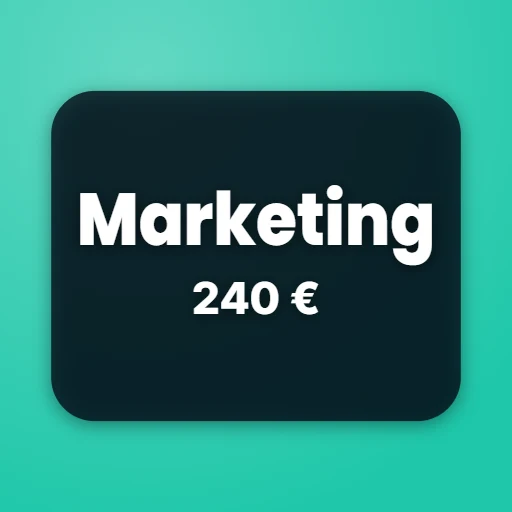
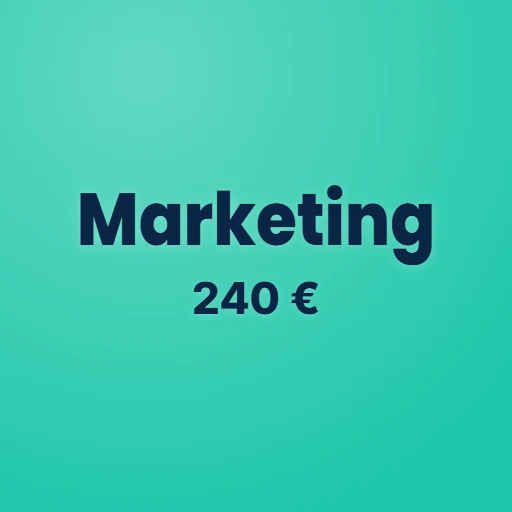
Le fond 3D ne disparaît plus, et l'encre des cubes s'adapte à la case
Fond d'écran : le filet de sécurité coupait l'ambiance dès que la page
tombait sous 14 images/s (nuage de cubes retiré), et supprimait tout le
fond sous 7 img/s. Sur une machine modeste, le fond d'écran 3D
s'évanouissait donc au bout de quelques secondes — c'est ce que Louis
constatait. Désormais il ne disparaît jamais pour cause de lenteur : la
définition baisse, le nombre de cubes diminue, mais ils restent à
l'écran. Seule une perte de contexte WebGL bascule encore sur le
dégradé statique — là il n'y a plus rien à afficher.

Écriture des cubes : la plaque noire derrière le texte est retirée. Elle
est remplacée par une encre choisie au contraste, pas par habitude —
blanc sur les cases bleues, bleu de marque sur le vert, le doré et le
bleu ciel. Mesures WCAG 2.1 : blanc/#2c73c9 = 4,77:1 · #0b2545/vert =
7,18:1 · #0b2545/doré = 6,41:1. Le seuil AA du texte courant est 4,5:1.

Le bleu des cases passe de #2f7bd6 à #2c73c9 : sur l'ancien, ni le blanc
(4,26) ni le foncé (3,61) n'atteignaient le seuil. La teinte change à
peine, le texte devient lisible. Couleur alignée entre les textures 3D,
les cubes de la scène et le repli CSS.

Le prix des cases claires passe à pleine opacité : il était à 0,92, ce
qui ne se voyait pas en blanc mais délavait l'encre foncée.

diff --git a/index.html b/index.html
@@ -449,6 +449,17 @@ if(f&&f.toLowerCase()==='b'){document.documentElement.classList.add('hero-clair-
      bas de la fourchette de police descend à 12,5 px : à 360 px de large, une case
      ne fait que 83 px de texte utile. */
   .cube-cell .cc-name,.cube-cell .cc-price{position:relative;z-index:1;overflow-wrap:anywhere;hyphens:manual}
+
+  /* Encre choisie par contraste, comme dans les textures 3D : blanc sur les
+     cases sombres, bleu de marque sur les cases claires. Mesures WCAG :
+     blanc/#2c73c9 = 4,77:1 · #0b2545/vert = 7,18:1 · #0b2545/dore = 6,41:1
+     · #0b2545/bleu ciel = 7,18:1. Seuil AA du texte courant : 4,5:1. */
+  .cube-cell.encre-foncee .cc-name,
+  .cube-cell.encre-foncee .cc-price{color:#0b2545;text-shadow:0 1px 6px rgba(255,255,255,.26)}
+  /* Le prix est en opacite reduite par defaut : invisible en encre foncee.
+     On le remet a plein et on l'epaissit legerement. */
+  .cube-cell.encre-foncee .cc-price{opacity:1;font-weight:700}
+
   /* Libellés plus gros : jusqu'à 19 px, 14 px minimum sur petit écran. */
   .cube-cell .cc-name{font-size:clamp(12.5px,3.2vw,19px);line-height:1.16;
     text-shadow:0 1px 3px rgba(3,10,24,.5),0 2px 12px rgba(3,10,24,.45);
@@ -625,15 +636,15 @@ if(f&&f.toLowerCase()==='b'){document.documentElement.classList.add('hero-clair-
     <div class="hero-stage d2">
       <!-- Repli sans WebGL / reduced-motion : la grille 3×3 du logo, chaque case ouvre une offre. -->
       <div class="cube-grid" id="cubeGrid" role="list" aria-label="Nos offres (grille du logo)">
-        <a class="cube-cell" role="listitem" style="background:linear-gradient(150deg,#3a89e0,#2f7bd6)" href="sites.html"><span class="cc-name">Sites web</span><span class="cc-price">dès 632 €</span></a>
-        <a class="cube-cell" role="listitem" style="background:linear-gradient(150deg,#2fd8ba,#1FC7A9)" href="marketing.html"><span class="cc-name">Marketing / Fiche Google</span><span class="cc-price">240 €</span></a>
-        <a class="cube-cell" role="listitem" style="background:linear-gradient(150deg,#3a89e0,#2f7bd6)" href="agents-ia.html"><span class="cc-name">Agents IA</span><span class="cc-price">dès 690 €</span></a>
-        <a class="cube-cell" role="listitem" style="background:linear-gradient(150deg,#2fd8ba,#1FC7A9)" href="automatisations.html"><span class="cc-name">Automatiser</span><span class="cc-price">dès 690 €</span></a>
-        <a class="cube-cell" role="listitem" style="background:linear-gradient(150deg,#5cc9ff,#38bdf8)" href="https://audit.ecd-digital.com" target="_blank" rel="noopener"><span class="cc-name">Audit gratuit</span><span class="cc-price">20 secondes</span></a>
-        <a class="cube-cell" role="listitem" style="background:linear-gradient(150deg,#d8b45f,#C9A24B)" href="realisations.html"><span class="cc-name">Réalisations</span><span class="cc-price">nos sites réels</span></a>
-        <a class="cube-cell" role="listitem" style="background:linear-gradient(150deg,#3a89e0,#2f7bd6)" href="guides.html"><span class="cc-name">Guides PDF</span><span class="cc-price">27 €</span></a>
-        <a class="cube-cell" role="listitem" style="background:linear-gradient(150deg,#d8b45f,#C9A24B)" href="blog.html"><span class="cc-name">Blog</span><span class="cc-price">18 articles</span></a>
-        <a class="cube-cell" role="listitem" style="background:linear-gradient(150deg,#3a89e0,#2f7bd6)" href="offres.html"><span class="cc-name">Offres &amp; tarifs</span><span class="cc-price">devis gratuit</span></a>
+        <a class="cube-cell" role="listitem" style="background:linear-gradient(150deg,#3681d4,#2c73c9)" href="sites.html"><span class="cc-name">Sites web</span><span class="cc-price">dès 632 €</span></a>
+        <a class="cube-cell encre-foncee" role="listitem" style="background:linear-gradient(150deg,#2fd8ba,#1FC7A9)" href="marketing.html"><span class="cc-name">Marketing / Fiche Google</span><span class="cc-price">240 €</span></a>
+        <a class="cube-cell" role="listitem" style="background:linear-gradient(150deg,#3681d4,#2c73c9)" href="agents-ia.html"><span class="cc-name">Agents IA</span><span class="cc-price">dès 690 €</span></a>
+        <a class="cube-cell encre-foncee" role="listitem" style="background:linear-gradient(150deg,#2fd8ba,#1FC7A9)" href="automatisations.html"><span class="cc-name">Automatiser</span><span class="cc-price">dès 690 €</span></a>
+        <a class="cube-cell encre-foncee" role="listitem" style="background:linear-gradient(150deg,#5cc9ff,#38bdf8)" href="https://audit.ecd-digital.com" target="_blank" rel="noopener"><span class="cc-name">Audit gratuit</span><span class="cc-price">20 secondes</span></a>
+        <a class="cube-cell encre-foncee" role="listitem" style="background:linear-gradient(150deg,#d8b45f,#C9A24B)" href="realisations.html"><span class="cc-name">Réalisations</span><span class="cc-price">nos sites réels</span></a>
+        <a class="cube-cell" role="listitem" style="background:linear-gradient(150deg,#3681d4,#2c73c9)" href="guides.html"><span class="cc-name">Guides PDF</span><span class="cc-price">27 €</span></a>
+        <a class="cube-cell encre-foncee" role="listitem" style="background:linear-gradient(150deg,#d8b45f,#C9A24B)" href="blog.html"><span class="cc-name">Blog</span><span class="cc-price">18 articles</span></a>
+        <a class="cube-cell" role="listitem" style="background:linear-gradient(150deg,#3681d4,#2c73c9)" href="offres.html"><span class="cc-name">Offres &amp; tarifs</span><span class="cc-price">devis gratuit</span></a>
       </div>
       <p class="fallback-note" id="fallbackNote">Chaque case du logo ouvre une offre. Version 3D animée disponible avec WebGL et sans « animations réduites ».</p>
     </div>
@@ -1269,7 +1280,7 @@ async function build(){
   const rimC = new THREE.DirectionalLight(0x38bdf8, 1.10); rimC.position.set(-6, -2, 3); scene.add(rimC);
   const rimT = new THREE.DirectionalLight(0x1FC7A9, 0.80); rimT.position.set(5, -4, -2); scene.add(rimT);
 
-  const COLORS = { teal:0x1FC7A9, gold:0xC9A24B, blue:0x2f7bd6, cyan:0x38bdf8 };
+  const COLORS = { teal:0x1FC7A9, gold:0xC9A24B, blue:0x2c73c9, cyan:0x38bdf8 };
   /* Grille du logo 3×3 : [0]TL [1]TC [2]TR / [3]ML [4]C [5]MR / [6]BL [7]BC [8]BR */
   const LAYOUT = [
     [-1, 1,'blue'],[0, 1,'teal'],[1, 1,'blue'],
@@ -1662,25 +1673,30 @@ async function build(){
     if(!document.hidden){ job.active = true; last = 0; RAF.wake(); }
   });
 
-  /* FILET DE SÉCURITÉ PERF — une seule scène coûte déjà cher au démarrage.
-     Si la page ne tient pas ~14 images/s, on allège (moins de pixels, plus de
-     cubes d'ambiance), puis on coupe l'ambiance. La GRILLE reste : c'est elle
-     qui porte les offres et les prix. */
-  let allege = false;
+  /* FILET DE SÉCURITÉ PERF — révisé le 03/08/2026 à la demande de Louis.
+     AVANT : sous 14 img/s le nuage de cubes disparaissait, sous 7 tout le fond
+     était coupé. Résultat : sur une machine modeste, le fond d'écran 3D
+     s'évanouissait au bout de quelques secondes — c'est ce que Louis voyait.
+     MAINTENANT : le fond ne disparaît JAMAIS pour cause de lenteur. On baisse
+     la définition et on ralentit son rafraîchissement, mais les cubes restent
+     à l'écran. Seule une perte de contexte WebGL (canvas mort) peut encore
+     basculer sur le dégradé statique — là il n'y a plus rien à afficher. */
+  let palier = 0;
   function sante(fps){
-    if(fps >= 14) return;
-    if(!allege && fps >= 7){
-      allege = true;
+    if(fps >= 12 || palier >= 2) return;
+    palier++;
+    if(palier === 1){
       renderer.setPixelRatio(Math.min(1, (window.devicePixelRatio||1)*0.6));
-      cloud.visible = false;
+      if(cloud) cloud.count = Math.max(3, Math.floor((cloud.count||9)/2));
       resize();
       RAF.watch(sante);
-      console.info('Scène 3D allégée (' + fps.toFixed(1) + ' img/s) : cubes d’ambiance retirés.');
+      console.info('Fond 3D allégé (' + fps.toFixed(1) + ' img/s) : définition réduite, cubes conservés.');
       return;
     }
-    bgGroup.visible = false; cloud.visible = false;
-    document.documentElement.classList.add('bg-static');
-    console.info('Ambiance 3D coupée (' + fps.toFixed(1) + ' img/s) : la grille des offres reste.');
+    renderer.setPixelRatio(0.5);
+    if(cloud) cloud.count = Math.max(2, Math.floor((cloud.count||6)/2));
+    resize();
+    console.info('Fond 3D au minimum (' + fps.toFixed(1) + ' img/s) : il reste visible.');
   }
   RAF.watch(sante);
 }
